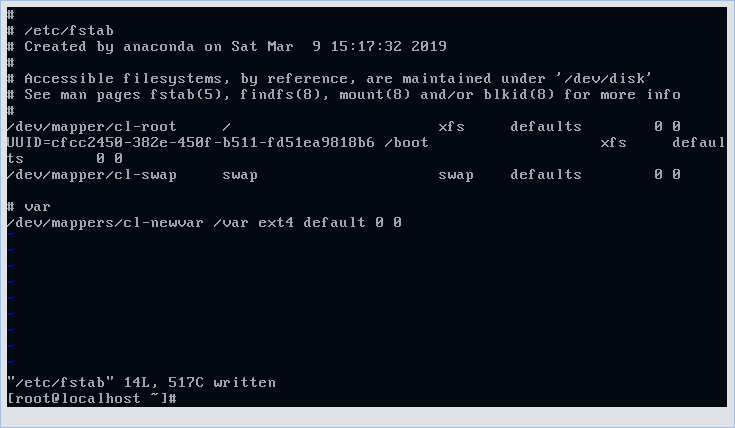
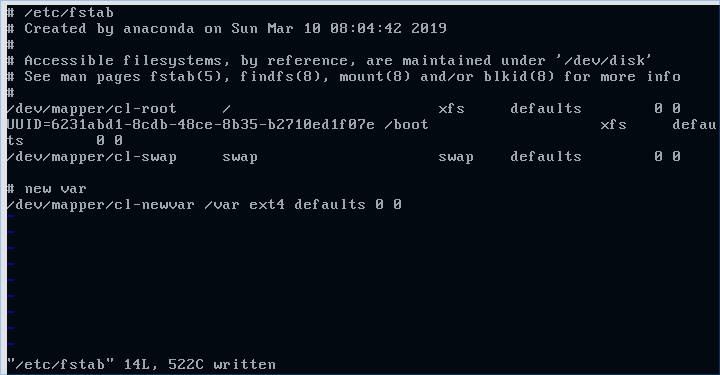
practica 1 terminada

diff --git a/ISE/practica1.md b/ISE/practica1.md
@@ -151,6 +151,8 @@ Y esto es todo, aquí termina la sesión 1 (no borres la máquina virtual).
 
 ## Sesión 2 (CentOS)
 
+### Parte 1: configuración de los discos
+
 1. Definir una nueva máquina virtual en Virtual Box
 
    - Nombre: ubuise2.
@@ -180,7 +182,7 @@ Y esto es todo, aquí termina la sesión 1 (no borres la máquina virtual).
    1. `poweroff`
    2. Settings => Storage => SATA => Add disk (como antes vaya, todo por defecto)
    3. Iniciamos la máquina y nos logeamos como root.
-   4. Si ejecutamos `sblk` deberíamos ver el nuevo disco creado.
+   4. Si ejecutamos `lsblk` deberíamos ver el nuevo disco creado.
 
 ![fotico](images/21.png)
 
@@ -194,7 +196,7 @@ Y esto es todo, aquí termina la sesión 1 (no borres la máquina virtual).
       ![fotico](images/22.png)
 
    5. `vgs` => información de volúmenos también.
-   6. `vgextended cl /dev/sdb` => para extender el grupo de volúmenes
+   6. `vgextend cl /dev/sdb` => para extender el grupo de volúmenes
    7. `vgs` => ahora debería aparecer PV a 2 y en `vgdisplay` ActPV a 2.
    8. `lvdisplay` => para ver los volúmenes configurados
    9. `lvdisplay | more root` (o swap)
@@ -210,13 +212,14 @@ Y esto es todo, aquí termina la sesión 1 (no borres la máquina virtual).
 9. Vamos a cambiar el var a newvar:
 
    1. Arrancamos CentOS en runlevel 1: `systemctl isolate runlevel1.target`
-   2. `systemctl status` => deberíamos ver _maintenance_ en naranjilla o así.
-   3. `mkdir /mnt/vartemp`
-   4. `mount /dev/cl/newvar /mnt/vartemp`
-   5. `df -h` => en la última línea saldrá _newvar_ montado en _vartemp_
-   6. `cp -a /var/* /mnt/vartemp` => copiar conservando metadatos, contexto y recursivamente)
-   7. `ls -l /mnt/vartemp` => veremos que está todo lo que antes estaba en var
-   8. `mv /var /oldvar` => ya la ruta de _/var_ como tal no existe, está todo movido y los datos en _newvar_.
+   2. `cd /` (muy **importante**)
+   3. `systemctl status` => deberíamos ver _maintenance_ en naranjilla o así.
+   4. `mkdir /mnt/vartemp`
+   5. `mount /dev/cl/newvar /mnt/vartemp`
+   6. `df -h` => en la última línea saldrá _newvar_ montado en _vartemp_
+   7. `cp -a /var/* /mnt/vartemp` => copiar conservando metadatos, contexto y recursivamente)
+   8. `ls -l /mnt/vartemp` => veremos que está todo lo que antes estaba en var
+   9. `mv /var /oldvar` => ya la ruta de _/var_ como tal no existe, está todo movido y los datos en _newvar_.
 
 10. Hacer que los nuevos datos de _newvar_ se pasen a _var_ y que ya sea el definitivo.
 
@@ -227,8 +230,49 @@ Y esto es todo, aquí termina la sesión 1 (no borres la máquina virtual).
 
     ![fotico](images/23.png)
 
-    5. `umount /mnt/vartemp`
-    6. `mount -a`
-    7. `lbslk`
-    8. `blkid`
-    9. `vgs`
+    1. `umount /mnt/vartemp`
+    2. `mount -a`
+    3. `lbslk`
+    4. `blkid` (para ver las ids)
+    5. `vgs` => Debería aparecer algo como esto
+
+    ![fotico](images/24.png)
+
+11. Ahora vamos a extender (el tamaño) del volumen lógico `newvar`:
+
+    1. `lvresize -L +2G /dev/mapper/cl-newvar` => **Importante** el signo `+`, que si no lo que hace es cambiarle el tamaño a 2G en lugar de ampliarlo.
+    2. `lsblk` => debería aparecer el tamaño cambiado (6G)
+    3. `df -h` => aquí aparecerá que su tamaño es 4G
+    4. Para actualizar ese valor, ejecutar: `resize2fs /dev/mapper/cl-newvar`
+
+    ![fotico](images/25.png)
+
+    5. `reboot` y luego `lsblk`, `df -h`, `ls -la /var` para ver los cambios hechos.
+
+### Parte 2: configuración de red
+
+1. Vamos a configurar una NAT:
+
+   1. `ipaddr` => muestra las interfaces de red (parecido a `ifconfig`)
+   2. `cd /etc/sysconfig/network-scripts`
+   3. `ls` => veremos los ficheros que se usan para configurar la red
+   4. `cat ifcfg-enp0s3` => ver info de esa NAT (`enp0s3`)
+   5. `vi ifcfg-enp0s3` y al final del todo cambiamos `ONBOOT=NO` por `ONBOOT=yes` => para que la NAT se activa cuando encendamos la máquina.
+   6. `ip addr` => la veremos sin configurar
+   7. `ifup ifcfg-enp0s3` => para que se configure
+   8. `ip addr` => ya debería aparecer configurada
+   9. `poweroff`
+
+2. Como en la sesión anterior, `Settings` -> `Network` -> `Adapter 2` -> `Enable network adapter` -> `host only` -> Iniciar la máquina virtual.
+
+3. `ip addr` => Debería aparecer un adaptador nuevo
+4. `cd /etc/sysconfig/network-scripts`
+5. `cp ifcfg-enp0s3 ifcfg-enp0s8`
+6. `vi ifcfg-enp0s8` y dejarlo como en la siguiente captura:
+
+   ![fotico](images/26.png)
+
+7. `ifup ifcfg-enp0s8` => también está el equivalente `ifdown` que es para desactivar la NAT.
+8. Para ver si lo has hecho bien puedes hacer `reboot` y luego `ping 192.168.57.118`: si sale que se mandan paquetitos está todo correcto y ya puedes mandar a esta práctica a tomar viento :).
+
+**IMPORTANTE**: en el examen pueden preguntar qué hacen los comandos que han aparecido aquí, así que estaría bien buscarlo. Además no borres las máquinas virtuales porque puede pedirte que se la enseñes y te haga preguntas.
